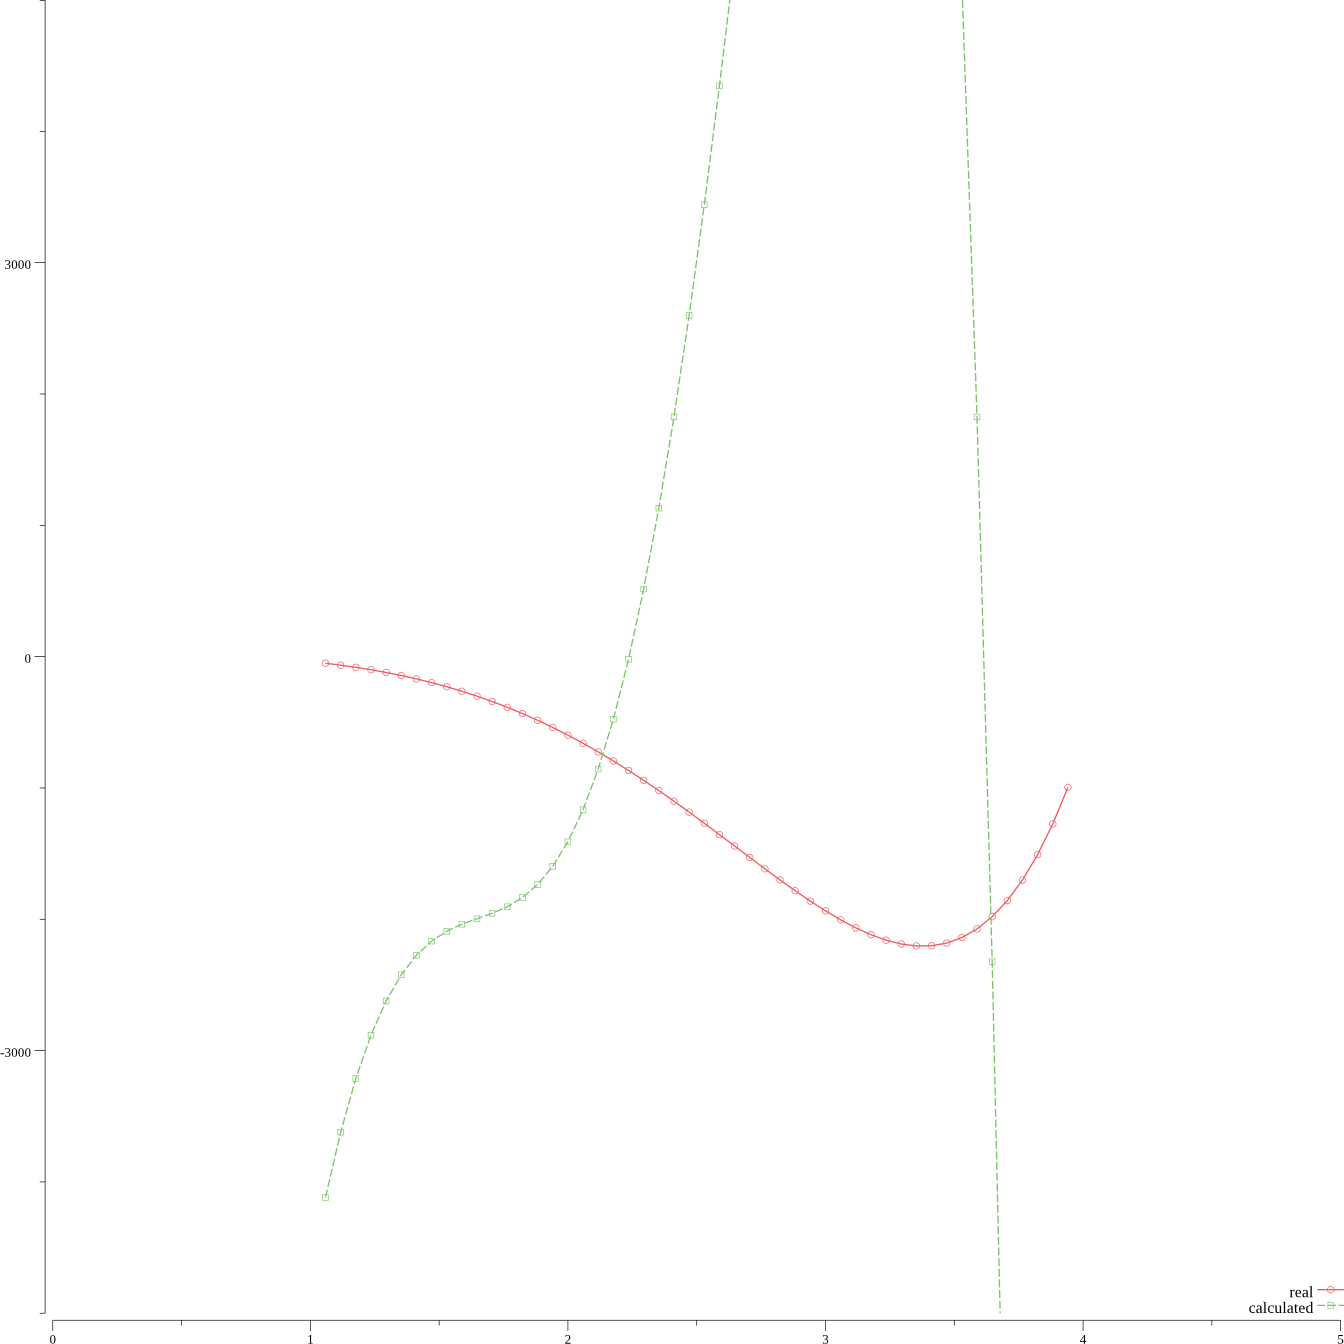
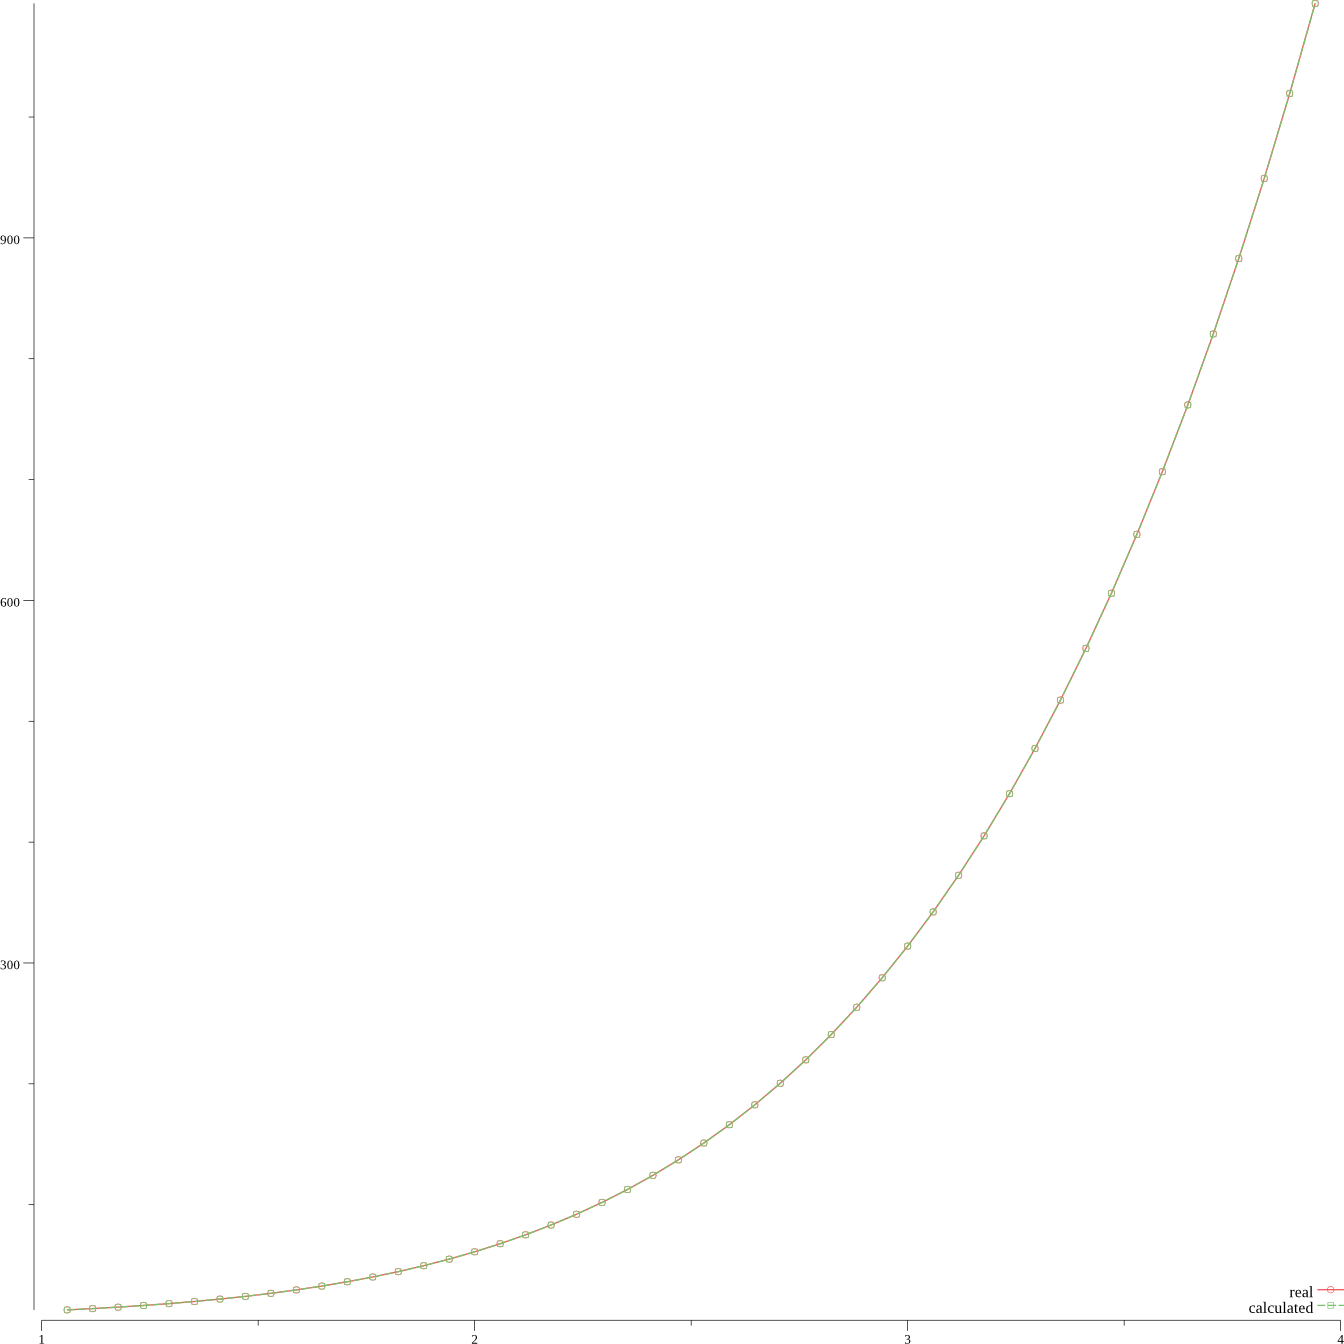
hotfixes

diff --git a/lab1/main.go b/lab1/main.go
@@ -71,7 +71,7 @@ func Run() {
 	var phi []func(float64) float64
 	var x []float64
 
-	n := 5
+	n := 4
 	for i := 0; i < n; i++ {
 		var ii = i
 		phi = append(phi, func(x float64) float64 {
@@ -97,11 +97,11 @@ func Run() {
 		r = mat64.NewDense(n, 1, nil)
 	)
 
-	for j := 0; j < n; j++ {
-		for i := 0; i < n; i++ {
-			A.Set(j, i, -k(x[i])*der2(phi[j], x[i])+(p(x[i])-der(k, x[i]))*der(phi[j], x[i])+q(x[i])*phi[j](x[i]))
+	for i := 0; i < n; i++ {
+		for j := 0; j < n; j++ {
+			A.Set(i, j, -k(x[i])*der2(phi[j], x[i])+(p(x[i])-der(k, x[i]))*der(phi[j], x[i])+q(x[i])*phi[j](x[i]))
 		}
-		F.Set(j, 0, f(x[j]))
+		F.Set(i, 0, f(x[i]))
 	}
 
 	log.Info(x)
@@ -141,9 +141,15 @@ func Run() {
 
 		return ans
 	}
+	
+	un(0)
+
+	var u = func(x float64) float64 {
+		return a1*math.Pow(x, n1) + a2*math.Pow(x, n2) + a3*math.Pow(x, n3) + a4
+	}
 
 	var fn = func(x float64) float64 {
-		return -k(x)*der2(un, x) + (p(x)-der(k, x))*der(un, x) + q(x)*un(x)
+		return -k(x)*der2(u, x) + (p(x)-der(k, x))*der(u, x) + q(x)*u(x)
 	}
 
 	var t, ffn, ff []float64
@@ -164,13 +170,13 @@ func Run() {
 	//fnPol.Color = color.RGBA{R: 0, G: 255, B: 0, A: 255}
 
 	pl, _ := plot.New()
-	pl.X.Min, pl.X.Max = a-1, b+1
+	pl.X.Min, pl.X.Max = a, b
 
 	plotutil.AddLinePoints(pl,
-		"real", pointsFromFunc(f, 50),
-		"calculated", pointsFromFunc(fn, 50))
+		"real", pointsFromFunc(u, 50),
+		"calculated", pointsFromFunc(un, 50))
 
-	pl.Y.Min, pl.Y.Max = -5000, 5000
+	//pl.Y.Min, pl.Y.Max = -2000, 2000
 
 	//pl.Add(fPol)
 	//pl.Add(fnPol)

diff --git a/main.go b/main.go
@@ -3,6 +3,7 @@ package main
 import "github.com/ZzEeKkAa/nmmph/lab1"
 
 func main() {
+	//lab1.SetEnvironment(0, 1, 1, 2, 4, 5, 2, 1, 1, 2, 1, 1, 1, 3, 1, 5, 3, 1, 0, 2, 0, 2, 1, 0)
 	lab1.SetEnvironment(1, 4, 1, 2, 4, 5, 2, 1, 1, 2, 1, 1, 1, 3, 1, 5, 3, 1, 0, 2, 0, 2, 1, 0)
 
 	lab1.Run()
